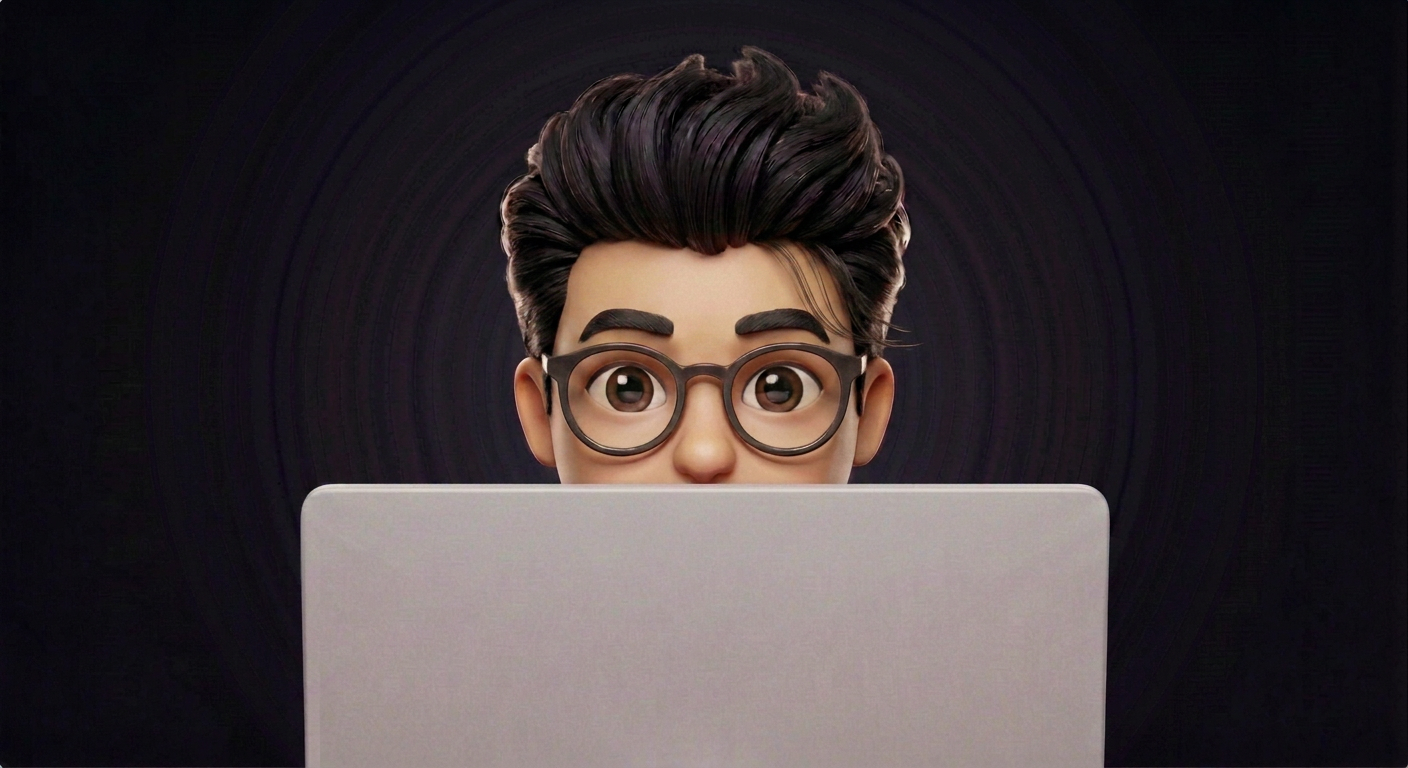
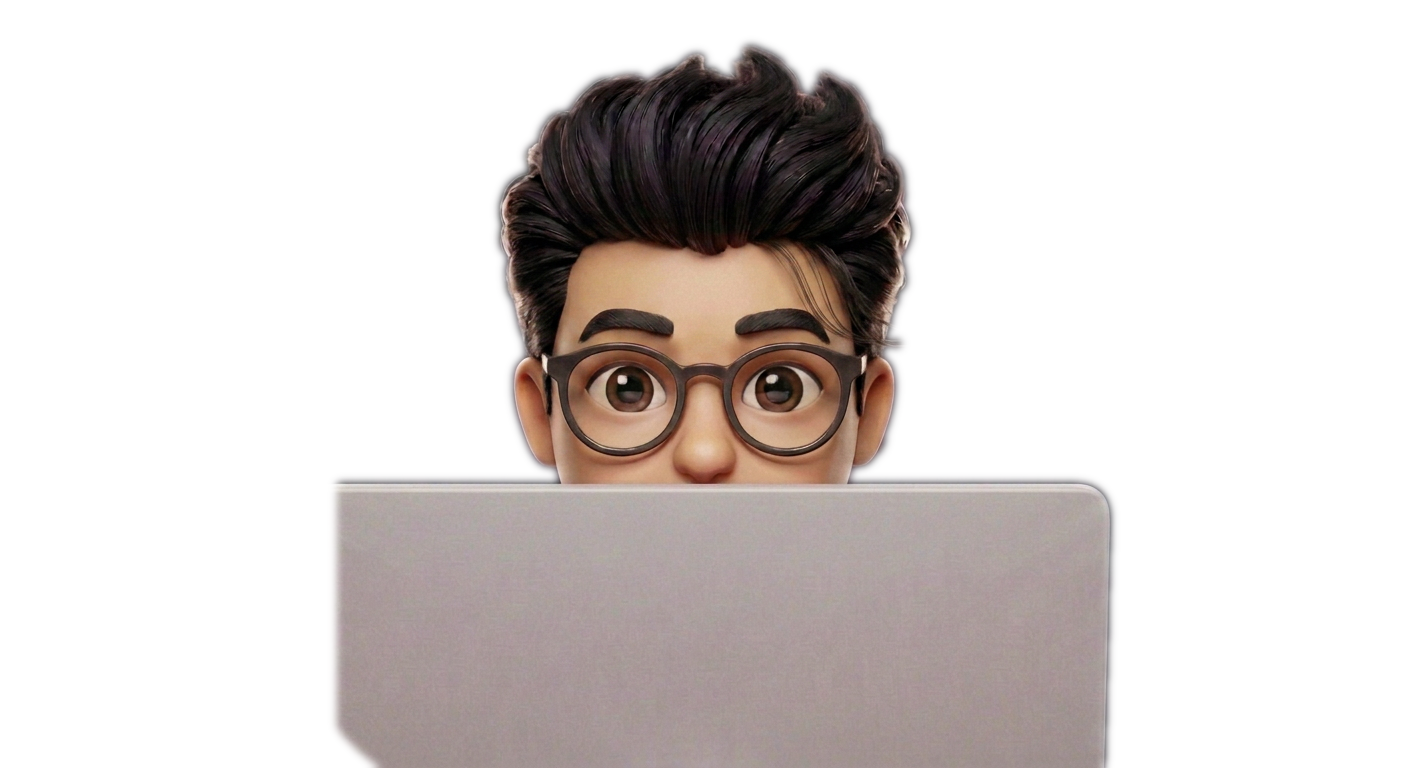
Blend hero Memoji into background
- Cut the Memoji out of its dark image rectangle with a transparent alpha
- Remove the rectangular radial mask so the character blends naturally
  into the starry hero background instead of appearing boxed

diff --git a/client/src/interaction-fluidity.css b/client/src/interaction-fluidity.css
@@ -90,8 +90,7 @@
 }
 
 .hero-visual { overflow: visible; border: 0; background: transparent; box-shadow: none; perspective: 900px; }
-.hero-visual::before, .hero-visual::after { content: none; }
-.hero-memoji-portrait {
+.hero-visual::before, .hero-visual::after { content: none; }.hero-memoji-portrait {
   position: absolute;
   z-index: 1;
   left: 50%;
@@ -99,8 +98,6 @@
   width: min(27rem, 100%);
   aspect-ratio: 4 / 3;
   pointer-events: auto;
-  -webkit-mask-image: radial-gradient(ellipse 47% 63% at 50% 57%, #000 58%, rgb(0 0 0 / .96) 66%, rgb(0 0 0 / .52) 80%, transparent 100%);
-  mask-image: radial-gradient(ellipse 47% 63% at 50% 57%, #000 58%, rgb(0 0 0 / .96) 66%, rgb(0 0 0 / .52) 80%, transparent 100%);
   transform: translate3d(-50%, 0, 0) rotateX(calc(var(--hero-memoji-tilt-x, 0deg) + var(--hero-memoji-settle-tilt-x, 0deg) + var(--hero-memoji-smile-tilt-x, 0deg))) rotateY(calc(var(--hero-memoji-tilt-y, 0deg) + var(--hero-memoji-settle-tilt-y, 0deg) + var(--hero-memoji-smile-tilt-y, 0deg))) scale(var(--hero-memoji-scale, 1));
   transform-origin: 50% 78%;
   filter: drop-shadow(var(--hero-memoji-shadow-x, 0px) calc(1.35rem + var(--hero-memoji-shadow-y, 0px)) 1.75rem rgb(0 0 0 / .62)) drop-shadow(0 0 .9rem rgb(167 139 250 / .18));
